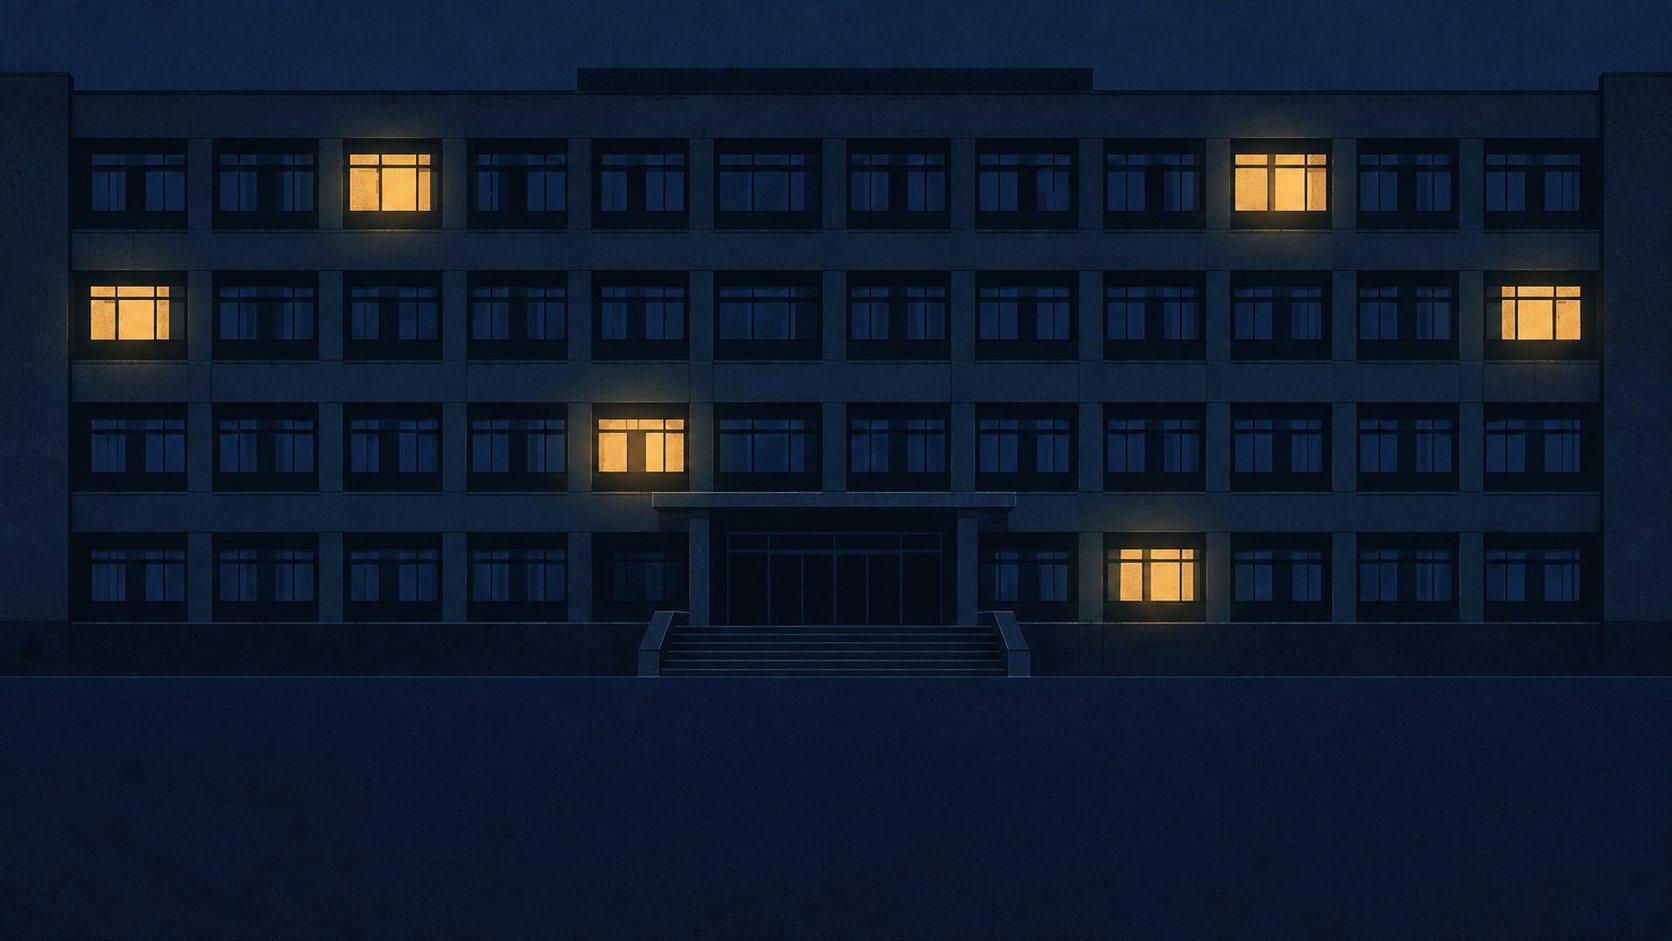
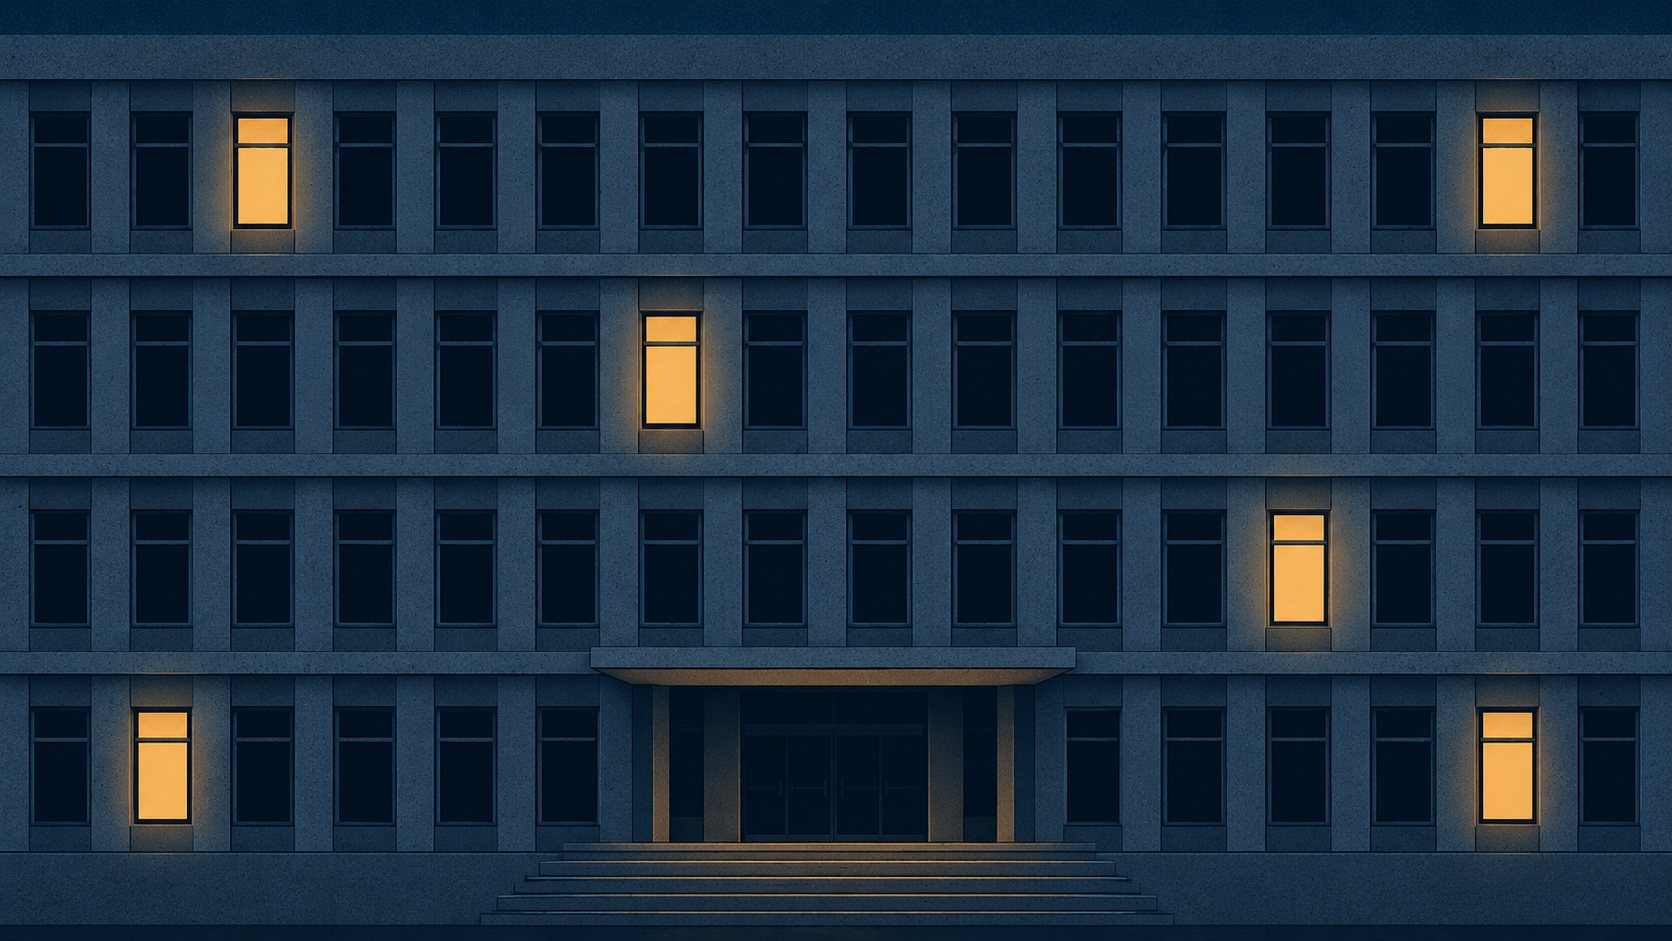
feat: matched hero facades, one building at two times of night
All four hero plates replaced with a single consistent building: same floor
count, same pier rhythm, same central entrance, filling the frame. The
entrance now reads in the gap under the V and the S.

The morning plate carries a band of sky above its roofline that the night
plate does not, and object-cover already shows full height so vertical
object-position cannot crop it. Corrected with a small scale on the images
rather than on their parent, because the entrance timeline tweens scale on
the parent and lands at 1, which would have erased it.

Retired the armillary sphere art.

diff --git a/src/components/chapters/Dusk.tsx b/src/components/chapters/Dusk.tsx
@@ -78,6 +78,7 @@ export function Dusk() {
           fill
           priority
           sizes="100vw"
+          style={variant === "morning" ? { scale: "1.09" } : undefined}
           className="hidden object-cover md:block"
         />
         <Image
@@ -87,6 +88,7 @@ export function Dusk() {
           fill
           priority
           sizes="100vw"
+          style={variant === "morning" ? { scale: "1.09" } : undefined}
           className="object-cover md:hidden"
         />
       </div>

diff --git a/docs/assets/HERO-PROMPTS.md b/docs/assets/HERO-PROMPTS.md
@@ -1,0 +1,80 @@
+# Hero prompts: one building, four views
+
+Four images of **the same building**. The paragraph describing the building is word for word identical in all four; only the light changes. That repetition is deliberate, so do not reword it.
+
+**Generate number 1 first.** If your tool lets you attach a reference image, attach number 1 when generating 2, 3 and 4 and add "same building, same architecture, same window grid, same entrance" to the prompt. That is what makes them a set rather than four similar pictures.
+
+## What the composition has to do
+
+- **Fill the frame.** The building runs edge to edge and top to bottom. No sky band above it, no empty ground band below it.
+- **Entrance dead centre, low.** The wordmark DEVSOC sits across the middle of the screen, and the entrance needs to read in the gap under the V and the S. So the entrance is horizontally centred, and the top of its canopy sits about two thirds of the way down the frame, with its steps running to the bottom edge.
+- **Symmetrical.** Straight on, like an elevation drawing, no perspective, no corner view.
+
+---
+
+## 1. Night, landscape
+
+`public/images/hero/facade-night-wide.jpg` — **1920 x 1080, 16:9 landscape**
+
+```
+Flat vector illustration of a four storey concrete academic building seen perfectly straight on like an architectural elevation, symmetrical, no perspective. The building fills the entire frame edge to edge and top to bottom, with no sky above it and no empty ground below it. Fourteen bays of tall rectangular windows run across each of the four floors, separated by plain concrete piers, with a flat horizontal ledge line between every floor. In the exact horizontal centre of the building there is a recessed main entrance: a wide dark doorway under a plain flat canopy, with a broad flight of shallow steps below it running down to the bottom edge of the frame. The top of the entrance canopy sits about two thirds of the way down the frame.
+
+Night. The concrete is a flat dark blue grey and the sky tone behind the roofline is deep indigo. Every window is dark navy except exactly six windows, scattered across different floors and never next to each other, which are filled solid warm amber as if lit from inside, each casting a soft amber glow onto the concrete around it. The entrance is dark with only a faint warm spill on the steps.
+
+Bold flat geometric shapes, limited palette of deep indigo, dark blue grey, near black and warm amber, subtle grain, screen print feel. No photorealism, no 3D render, no text, no signage, no people, no trees, no cars.
+```
+
+## 2. Night, portrait
+
+`public/images/hero/facade-night-tall.jpg` — **1080 x 1920, 9:16 portrait**
+
+```
+Flat vector illustration of a four storey concrete academic building seen perfectly straight on like an architectural elevation, symmetrical, no perspective. The building fills the entire frame edge to edge and top to bottom, with no sky above it and no empty ground below it. Six bays of tall rectangular windows run across each of the four floors, separated by plain concrete piers, with a flat horizontal ledge line between every floor. In the exact horizontal centre of the building there is a recessed main entrance: a wide dark doorway under a plain flat canopy, with a broad flight of shallow steps below it running down to the bottom edge of the frame. The top of the entrance canopy sits about two thirds of the way down the frame.
+
+Night. The concrete is a flat dark blue grey and the sky tone behind the roofline is deep indigo. Every window is dark navy except exactly four windows, scattered across different floors and never next to each other, which are filled solid warm amber as if lit from inside, each casting a soft amber glow onto the concrete around it. The entrance is dark with only a faint warm spill on the steps.
+
+Bold flat geometric shapes, limited palette of deep indigo, dark blue grey, near black and warm amber, subtle grain, screen print feel. No photorealism, no 3D render, no text, no signage, no people, no trees, no cars.
+```
+
+## 3. Morning, landscape
+
+`public/images/hero/facade-morning-wide.jpg` — **1920 x 1080, 16:9 landscape**
+
+```
+Flat vector illustration of a four storey concrete academic building seen perfectly straight on like an architectural elevation, symmetrical, no perspective. The building fills the entire frame edge to edge and top to bottom, with no sky above it and no empty ground below it. Fourteen bays of tall rectangular windows run across each of the four floors, separated by plain concrete piers, with a flat horizontal ledge line between every floor. In the exact horizontal centre of the building there is a recessed main entrance: a wide dark doorway under a plain flat canopy, with a broad flight of shallow steps below it running down to the bottom edge of the frame. The top of the entrance canopy sits about two thirds of the way down the frame.
+
+Early morning. The concrete is a flat warm pale grey and the sky tone behind the roofline is pale sea green. Every window is a flat pale sea green as if reflecting the morning sky, and none of them are lit. One soft flat shadow falls to the right of each concrete pier. The entrance is open and pale, with a soft warm light inside it.
+
+Bold flat geometric shapes, limited palette of pale sea green, warm pale grey, bone white and one soft warm light, subtle grain, screen print feel. No photorealism, no 3D render, no text, no signage, no people, no trees, no cars.
+```
+
+## 4. Morning, portrait
+
+`public/images/hero/facade-morning-tall.jpg` — **1080 x 1920, 9:16 portrait**
+
+```
+Flat vector illustration of a four storey concrete academic building seen perfectly straight on like an architectural elevation, symmetrical, no perspective. The building fills the entire frame edge to edge and top to bottom, with no sky above it and no empty ground below it. Six bays of tall rectangular windows run across each of the four floors, separated by plain concrete piers, with a flat horizontal ledge line between every floor. In the exact horizontal centre of the building there is a recessed main entrance: a wide dark doorway under a plain flat canopy, with a broad flight of shallow steps below it running down to the bottom edge of the frame. The top of the entrance canopy sits about two thirds of the way down the frame.
+
+Early morning. The concrete is a flat warm pale grey and the sky tone behind the roofline is pale sea green. Every window is a flat pale sea green as if reflecting the morning sky, and none of them are lit. One soft flat shadow falls to the right of each concrete pier. The entrance is open and pale, with a soft warm light inside it.
+
+Bold flat geometric shapes, limited palette of pale sea green, warm pale grey, bone white and one soft warm light, subtle grain, screen print feel. No photorealism, no 3D render, no text, no signage, no people, no trees, no cars.
+```
+
+---
+
+## Checking them before you send them over
+
+Put the four side by side and ask three questions.
+
+1. Is it the same building in all four? Same floor count, same pier rhythm, same entrance shape. If the morning one has three floors and the night one has four, regenerate the odd one out with number 1 attached as a reference.
+2. Is the entrance in the centre and low, with steps reaching the bottom edge?
+3. Does the building touch all four edges, with no empty band anywhere?
+
+| # | File | Size | Ratio |
+|---|---|---|---|
+| 1 | `hero/facade-night-wide.jpg` | 1920 x 1080 | 16:9 |
+| 2 | `hero/facade-night-tall.jpg` | 1080 x 1920 | 9:16 |
+| 3 | `hero/facade-morning-wide.jpg` | 1920 x 1080 | 16:9 |
+| 4 | `hero/facade-morning-tall.jpg` | 1080 x 1920 | 9:16 |
+
+Drop them at those paths, overwriting what is there, and tell me. I will check the framing against the wordmark and adjust the scrim so the lit windows keep their glow behind the type.
